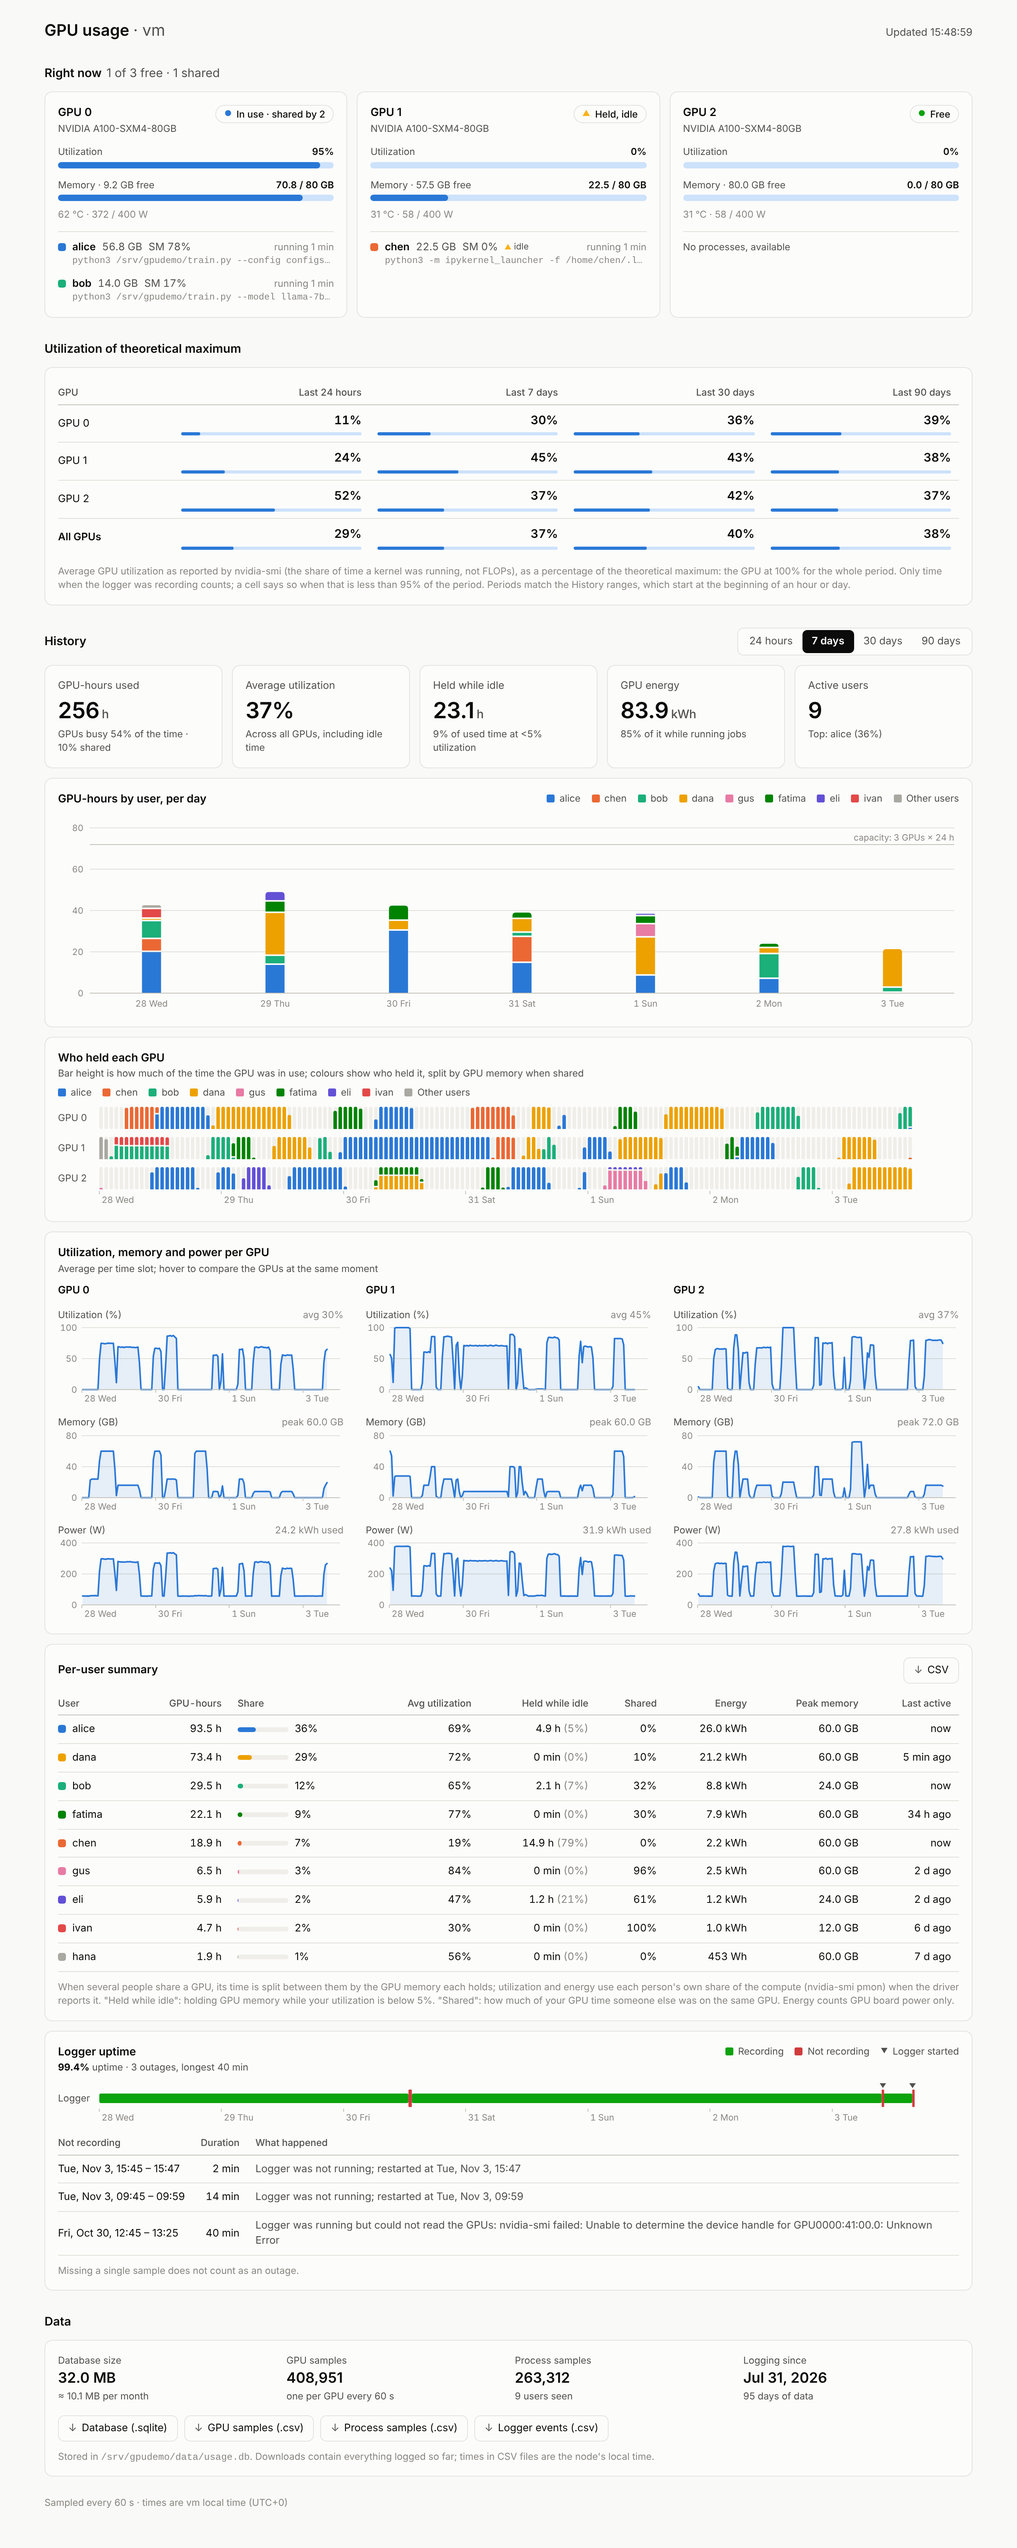
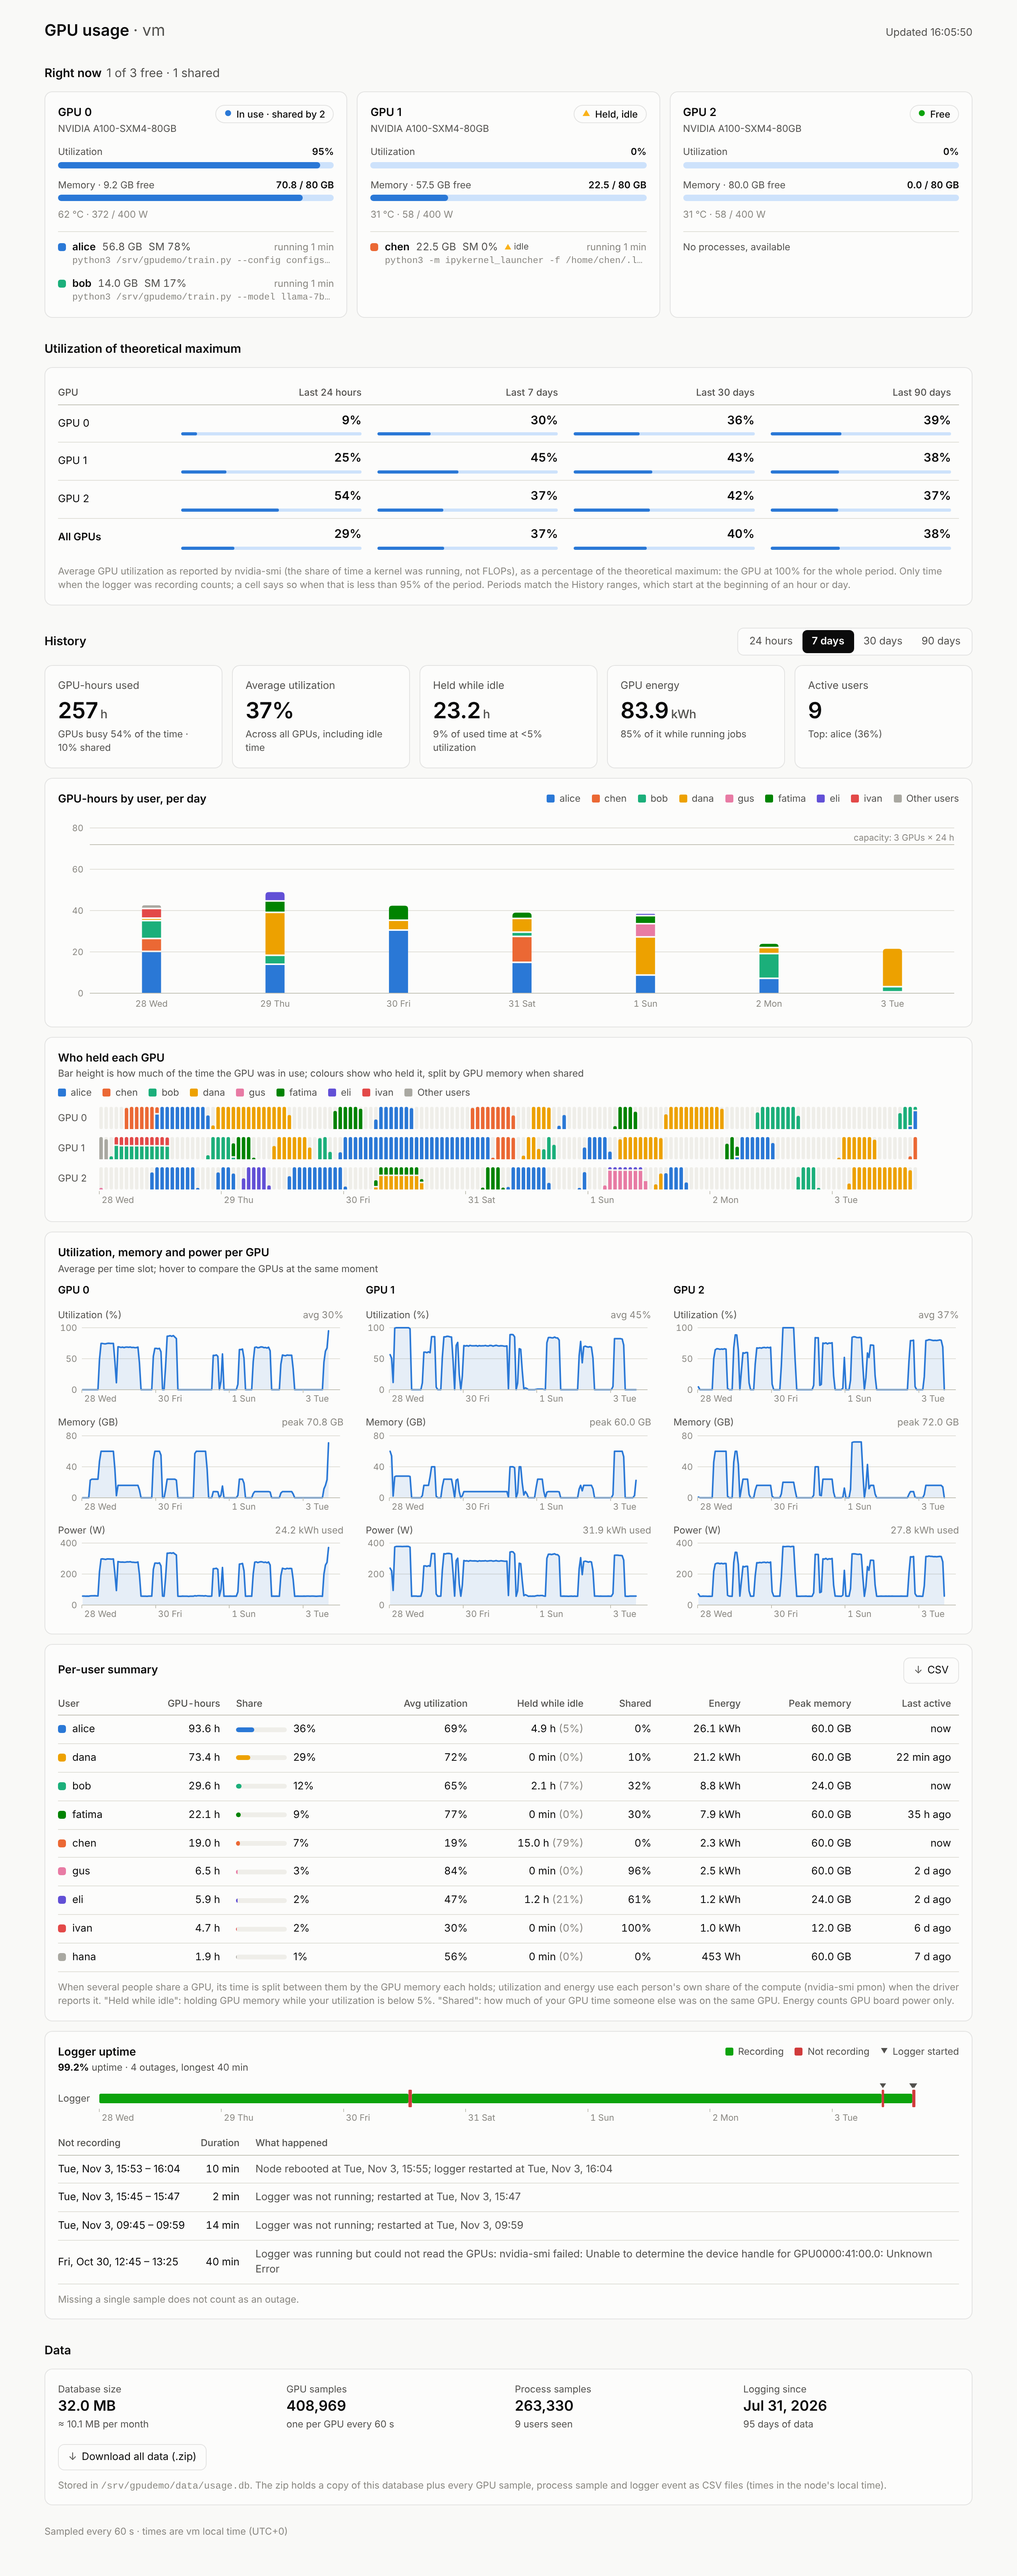
Replace the four download buttons with one zip export
The Data section now has a single "Download all data (.zip)" button. The zip
holds a snapshot of the database plus every table as CSV, read from that same
snapshot so the files agree. --export writes the same zip. The per-user CSV
button and the individual /export/* URLs stay for scripts.

Claude-Session: https://claude.ai/code/session_01TzTXxJQ5gHuH8DB6Aoz4Sr

diff --git a/gpu_dash.py b/gpu_dash.py
@@ -13,6 +13,7 @@ per data directory - extra copies exit at once - so it is safe to (re)start it f
 own crontab every few minutes as a watchdog. See README.md.
 """
 import argparse
+import contextlib
 import csv
 import datetime as dt
 import fcntl
@@ -27,6 +28,7 @@ import sys
 import tempfile
 import threading
 import time
+import zipfile
 from http.server import BaseHTTPRequestHandler, ThreadingHTTPServer
 from urllib.parse import parse_qs, urlparse
 
@@ -308,24 +310,28 @@ class Store:
             dst.close()
 
     def iter_csv(self, table, batch=50000):
-        """Every row of a table as CSV, in chunks, without blocking the logger for long."""
-        sql, header, _ = CSV_EXPORTS[table]
-        buf = io.StringIO()
-        w = csv.writer(buf, lineterminator="\n")
-        w.writerow(header)
-        last = 0
-        while True:
-            with self.lock:
-                rows = self.con.execute(sql, (last, batch)).fetchall()
-            if not rows:
-                break
-            last = rows[-1][0]
-            w.writerows(r[1:] for r in rows)
-            yield buf.getvalue().encode()
-            buf.seek(0)
-            buf.truncate()
-        if buf.tell():
-            yield buf.getvalue().encode()
+        return iter_csv(self.con, table, self.lock, batch)
+
+
+def iter_csv(con, table, lock=None, batch=50000):
+    """Every row of a table as CSV, in chunks, without blocking the logger for long."""
+    sql, header, _ = CSV_EXPORTS[table]
+    buf = io.StringIO()
+    w = csv.writer(buf, lineterminator="\n")
+    w.writerow(header)
+    last = 0
+    while True:
+        with lock or contextlib.nullcontext():
+            rows = con.execute(sql, (last, batch)).fetchall()
+        if not rows:
+            break
+        last = rows[-1][0]
+        w.writerows(r[1:] for r in rows)
+        yield buf.getvalue().encode()
+        buf.seek(0)
+        buf.truncate()
+    if buf.tell():
+        yield buf.getvalue().encode()
 
 
 # --------------------------------------------------------------------------- app
@@ -659,18 +665,36 @@ def print_report(d):
           % (db["path"], fmt_bytes(db["bytes"]), db["gpu_rows"], db["proc_rows"]))
 
 
+def export_name(host):
+    return "gpu-usage-export_%s_%s.zip" % (host, time.strftime("%Y%m%d"))
+
+
+def write_export_zip(store, host, dest):
+    """All data in one zip: a copy of the database plus every table as CSV. The CSVs are read
+    from that same copy, so the files agree with each other while logging carries on."""
+    stem = "%s_%s" % (host, time.strftime("%Y%m%d"))
+    fd, snap = tempfile.mkstemp(suffix=".sqlite")
+    os.close(fd)
+    try:
+        store.backup(snap)
+        con = sqlite3.connect("file:%s?mode=ro" % snap, uri=True)
+        try:
+            with zipfile.ZipFile(dest, "w", zipfile.ZIP_DEFLATED) as z:
+                z.write(snap, "gpu-usage_%s.sqlite" % stem)
+                for table, (_, _, name) in CSV_EXPORTS.items():
+                    with z.open("%s_%s.csv" % (name, stem), "w", force_zip64=True) as f:
+                        for chunk in iter_csv(con, table):
+                            f.write(chunk)
+        finally:
+            con.close()
+    finally:
+        os.unlink(snap)
+    return dest
+
+
 def export_all(store, host, outdir):
     os.makedirs(outdir, exist_ok=True)
-    stem = "%s_%s" % (host, time.strftime("%Y%m%d"))
-    paths = [os.path.join(outdir, "gpu-usage_%s.sqlite" % stem)]
-    store.backup(paths[0])
-    for table, (_, _, name) in CSV_EXPORTS.items():
-        path = os.path.join(outdir, "%s_%s.csv" % (name, stem))
-        with open(path, "wb") as f:
-            for chunk in store.iter_csv(table):
-                f.write(chunk)
-        paths.append(path)
-    return paths
+    return [write_export_zip(store, host, os.path.join(outdir, export_name(host)))]
 
 
 # --------------------------------------------------------------------------- web
@@ -706,6 +730,16 @@ def make_handler(app):
                 elif p.endswith("/api/history"):
                     d = app.history(q.get("range", ["7d"])[0])
                     self._send(200, json.dumps(d).encode(), "application/json")
+                elif p.endswith("/export/all.zip"):
+                    fd, tmp = tempfile.mkstemp(suffix=".zip")
+                    os.close(fd)
+                    try:
+                        write_export_zip(app.store, app.host, tmp)
+                        with open(tmp, "rb") as f:
+                            self._download(iter(lambda: f.read(1 << 20), b""), "application/zip",
+                                           export_name(app.host), os.path.getsize(tmp))
+                    finally:
+                        os.unlink(tmp)
                 elif p.endswith("/export/usage.sqlite"):
                     fd, tmp = tempfile.mkstemp(suffix=".sqlite")
                     os.close(fd)
@@ -1044,10 +1078,7 @@ footer { color:var(--muted); font-size:12px; margin-top:24px; }
   <div class="card">
     <div class="dstats" id="dbstats"></div>
     <div class="dl">
-      <a class="btn" href="export/usage.sqlite" download><span class="ar">↓</span>Database (.sqlite)</a>
-      <a class="btn" href="export/gpu.csv" download><span class="ar">↓</span>GPU samples (.csv)</a>
-      <a class="btn" href="export/proc.csv" download><span class="ar">↓</span>Process samples (.csv)</a>
-      <a class="btn" href="export/events.csv" download><span class="ar">↓</span>Logger events (.csv)</a>
+      <a class="btn" id="zipbtn" href="export/all.zip" download><span class="ar">↓</span><span>Download all data (.zip)</span></a>
     </div>
     <div class="note" id="dbnote"></div>
   </div>
@@ -1521,7 +1552,8 @@ function renderData(d) {
     stat("Process samples", db.proc_rows.toLocaleString(), `${db.users} users seen`),
     stat("Logging since", db.first != null ? fmtT(db.first, YEAR) : "–", db.first != null ? `${days < 1 ? "<1" : Math.round(days)} days of data` : null));
   const note = $("#dbnote"); note.textContent = "";
-  note.append("Stored in ", el("code", null, db.path), ". Downloads contain everything logged so far; times in CSV files are the node's local time.");
+  note.append("Stored in ", el("code", null, db.path), ". The zip holds a copy of this database plus every GPU sample, " +
+              "process sample and logger event as CSV files (times in the node's local time).");
 }
 
 // ---- utilization as a share of the theoretical maximum, every GPU x every range
@@ -1654,6 +1686,12 @@ for (const b of document.querySelectorAll(".seg button")) {
     loadHist();
   });
 }
+// building the zip takes a few seconds on a large database, so say so until the download starts
+$("#zipbtn").addEventListener("click", () => {
+  const label = $("#zipbtn span:last-child");
+  label.textContent = "Preparing download…";
+  setTimeout(() => { label.textContent = "Download all data (.zip)"; }, 10000);
+});
 let rt;
 addEventListener("resize", () => { clearTimeout(rt); rt = setTimeout(() => { if (hist) { renderCols(hist); renderTimeline(hist); renderMetrics(hist); renderUptime(hist); } }, 150); });
 loadLive(); loadHist();

diff --git a/tests/test_gpu_dash.py b/tests/test_gpu_dash.py
@@ -16,6 +16,7 @@ import threading
 import time
 import unittest
 import urllib.request
+import zipfile
 from unittest import mock
 
 HERE = os.path.dirname(os.path.abspath(__file__))
@@ -50,6 +51,21 @@ class Base(unittest.TestCase):
         self.store.con.close()
         self.env.stop()
         self.tmp.cleanup()
+
+    def check_zip(self, path, gpu_rows, proc_rows):
+        """The export zip holds the database and one CSV per table, and they agree."""
+        with zipfile.ZipFile(path) as z:
+            names = z.namelist()
+            self.assertEqual(len(names), 1 + len(gpu_dash.CSV_EXPORTS))
+            db_name = next(n for n in names if n.endswith(".sqlite"))
+            z.extract(db_name, self.tmp.name)
+            csvs = {n.split("_")[0]: z.read(n).decode() for n in names if n.endswith(".csv")}
+        copy = sqlite3.connect(os.path.join(self.tmp.name, db_name))
+        self.assertEqual(copy.execute("SELECT COUNT(*) FROM gpu").fetchone()[0], gpu_rows)
+        copy.close()
+        self.assertEqual(set(csvs), {"gpu-samples", "process-samples", "logger-events"})
+        self.assertEqual(len(csvs["gpu-samples"].splitlines()), gpu_rows + 1)
+        self.assertEqual(len(csvs["process-samples"].splitlines()), proc_rows + 1)
 
     def fill(self, minutes, gpus_at):
         """Insert one sample per minute for the last `minutes` minutes."""
@@ -250,16 +266,12 @@ class Exports(Base):
         text = b"".join(self.store.iter_csv("proc")).decode()
         self.assertEqual(text.strip(), ",".join(gpu_dash.CSV_EXPORTS["proc"][1]))
 
-    def test_export_all_copies_database_and_csvs(self):
-        self.fill(10, lambda i: [gpu(0, procs=[proc("alice", 100)])])
-        out = os.path.join(self.tmp.name, "export")
-        paths = gpu_dash.export_all(self.store, "node", out)
-        self.assertEqual(len(paths), 1 + len(gpu_dash.CSV_EXPORTS))
-        copy = sqlite3.connect(paths[0])
-        self.assertEqual(copy.execute("SELECT COUNT(*) FROM gpu").fetchone()[0], 10)
-        copy.close()
-        with open(paths[2]) as f:
-            self.assertEqual(len(f.readlines()), 11)
+    def test_export_all_writes_one_zip(self):
+        self.fill(10, lambda i: [gpu(0, procs=[proc("alice", 100)]), gpu(1)])
+        paths = gpu_dash.export_all(self.store, "node", os.path.join(self.tmp.name, "export"))
+        self.assertEqual(len(paths), 1)
+        self.assertTrue(paths[0].endswith(".zip"))
+        self.check_zip(paths[0], gpu_rows=20, proc_rows=10)
 
 
 class WebAndCli(Base):
@@ -292,6 +304,13 @@ class WebAndCli(Base):
             _, headers, body = get("export/usage.sqlite")
             self.assertTrue(body.startswith(b"SQLite format 3"))
             self.assertEqual(int(headers["Content-Length"]), len(body))
+            _, headers, body = get("export/all.zip")
+            self.assertEqual(headers["Content-Type"], "application/zip")
+            self.assertIn(".zip", headers["Content-Disposition"])
+            zpath = os.path.join(self.tmp.name, "all.zip")
+            with open(zpath, "wb") as f:
+                f.write(body)
+            self.check_zip(zpath, gpu_rows=3, proc_rows=1)
         finally:
             server.shutdown()
             server.server_close()
@@ -311,7 +330,9 @@ class WebAndCli(Base):
         self.assertEqual(out.getvalue().strip(), ",".join(gpu_dash.SUMMARY_HEADER))
         with contextlib.redirect_stdout(io.StringIO()):
             gpu_dash.main(["--data-dir", data_dir, "--export", os.path.join(self.tmp.name, "out")])
-        self.assertEqual(len(os.listdir(os.path.join(self.tmp.name, "out"))), 1 + len(gpu_dash.CSV_EXPORTS))
+        exported = os.listdir(os.path.join(self.tmp.name, "out"))
+        self.assertEqual(len(exported), 1)
+        self.assertTrue(exported[0].startswith("gpu-usage-export_") and exported[0].endswith(".zip"))
 
     def test_second_copy_exits_when_one_is_running(self):
         data_dir = os.path.join(self.tmp.name, "dd")

diff --git a/README.md b/README.md
@@ -97,7 +97,7 @@ export GPU_DASH_DIR=/path/to/scratch/gpu-dash
 | `gpu_dash.py` | Records a sample every 60 s and serves the dashboard on `127.0.0.1:8050` |
 | `gpu_dash.py --report 7d` | Prints the per-user summary, utilization per GPU and period, and logger uptime, for `24h`, `7d`, `30d` or `90d` |
 | `gpu_dash.py --report 30d --csv` | Prints the per-user summary as CSV |
-| `gpu_dash.py --export DIR` | Writes a copy of the database and every sample and event as CSV into `DIR` |
+| `gpu_dash.py --export DIR` | Writes the same zip as **Download all data** into `DIR` |
 
 Options: `--data-dir DIR` (default `$GPU_DASH_DIR`, otherwise `~/.gpu-dash`), `--port`
 (default 8050), `--host` (default 127.0.0.1), `--interval` (seconds between samples,
@@ -105,7 +105,8 @@ default 60).
 
 ## Exporting data
 
-The **Data** section of the page, and `--export`, give you:
+**Download all data (.zip)** in the **Data** section of the page, and `--export DIR` on
+the command line, both produce `gpu-usage-export_<host>_<date>.zip`. It contains:
 
 | File | Contents |
 |---|---|
@@ -113,11 +114,16 @@ The **Data** section of the page, and `--export`, give you:
 | `gpu-samples_<host>_<date>.csv` | One row per GPU per sample: `time, unix_time, gpu, util_pct, mem_used_mib, mem_total_mib, power_w, temp_c, sample_seconds` |
 | `process-samples_<host>_<date>.csv` | One row per GPU process per sample: `time, unix_time, gpu, user, pid, mem_mib, sm_util_pct` |
 | `logger-events_<host>_<date>.csv` | Logger starts (with the node's boot time) and failed samples: `time, unix_time, event, detail` |
-| `user-summary-<range>_<host>_<date>.csv` | The per-user table for the selected range (the **CSV** button above the table) |
 
-The same files are available directly at `/export/usage.sqlite`, `/export/gpu.csv`,
-`/export/proc.csv`, `/export/events.csv` and `/export/summary.csv?range=7d`. Times in the
-CSV files are in the node's local time.
+The CSV files are read from the same database copy, so everything in the zip agrees.
+Times in them are the node's local time.
+
+The **CSV** button above the per-user table downloads just that table for the selected
+range (`user-summary-<range>_<host>_<date>.csv`).
+
+For scripts, each file is also available on its own: `/export/usage.sqlite`,
+`/export/gpu.csv`, `/export/proc.csv`, `/export/events.csv` and
+`/export/summary.csv?range=7d`. The whole zip is at `/export/all.zip`.
 
 ## Utilization of theoretical maximum
 
